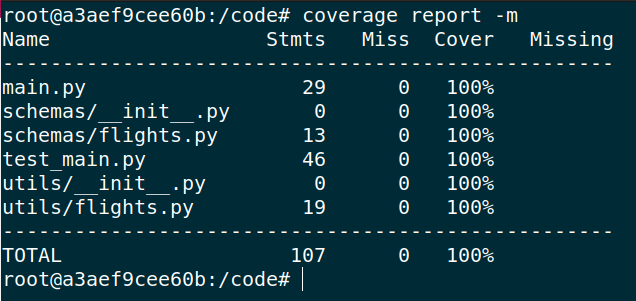
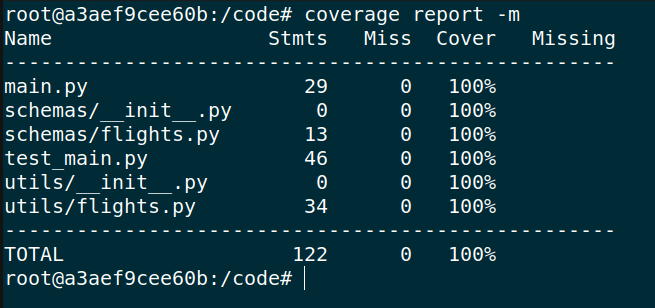
Update methods and image

Changed region(s): [[0.0, 0.0, 1.0, 1.0], [0.5975, 0.4186, 0.6572, 0.7176], [0.5975, 0.8073, 0.6572, 0.8671]]

diff --git a/utils/flights.py b/utils/flights.py
@@ -1770,10 +1770,24 @@ def get_fastest_flight_route():
     }
 
 def get_sorted_flights_by_price(is_descending: bool, limit: int = 10):
-  return sorted(data_flights, key=lambda flight: flight['pricing_options'][0]['price']['amount'], reverse=not is_descending)[:limit]
+  '''
+    Here, I propose two methods:
+      1. Utilize the "sorted" method.
+      2. Implement the bubble sort algorithm.
+  '''
+  # 1. return sorted(data_flights, key=lambda flight: flight['pricing_options'][0]['price']['amount'], reverse=not is_descending)[:limit]
+  #2
+  return _sort_flights_bubble(data_flights, is_descending)[:limit]
 
 def get_flights_by_company(company_id: str):
-  return list(filter(lambda flight: flight['pricing_options'][0]['agents'][0]['id'] == company_id, data_flights))
+  '''
+    Here, I suggest two methods:
+      1.Apply the filter method.
+      2. Utilize manual filtering.
+  '''
+  # 1. return list(filter(lambda flight: flight['pricing_options'][0]['agents'][0]['id'] == company_id, data_flights))
+  #2
+  return _filter_flights_by_company(data_flights, company_id)
 
 def _adapt_flight_trip_data(flight_id, flight_deeplink, flight_leg):
   return {
@@ -1781,3 +1795,24 @@ def _adapt_flight_trip_data(flight_id, flight_deeplink, flight_leg):
     "flight_deeplink": flight_deeplink,
     "trip": flight_leg
   }
+
+def _sort_flights_bubble(data_flights, is_descending: bool):
+    'Bubble sort algorithm'
+
+    n = len(data_flights)
+    for i in range(n):
+        for j in range(0, n-i-1):
+            price1 = data_flights[j]['pricing_options'][0]['price']['amount']
+            price2 = data_flights[j+1]['pricing_options'][0]['price']['amount']
+            if (price1 > price2) if is_descending else (price1 < price2):
+                data_flights[j], data_flights[j+1] = data_flights[j+1], data_flights[j]
+    return data_flights
+
+def _filter_flights_by_company(data_flights, company_id: str):
+    'Manual filtering algorithm'
+    
+    filtered_flights = []
+    for flight in data_flights:
+        if flight['pricing_options'][0]['agents'][0]['id'] == company_id:
+            filtered_flights.append(flight)
+    return filtered_flights

diff --git a/main.py b/main.py
@@ -20,12 +20,6 @@ app.add_middleware(
 )
 
 
-#  - `/show_flights` => show all flights
-#  - `/show_fastest_route` => retrieve fastest total flight time route
-#  - `/sort_flights_by_price` => sorted flights by price: (parameters ->  `sorting_asc`: `True` or `False`, `limit`: number of flights shown)
-#  - `/show_flights_by_company` => show only routes provided by the company (pass argument)
-
-
 @app.get("/show_flights", status_code=200)
 def show_flights() -> list[flight_schemas.FlightDetail]:
     return flights.get_flights()
